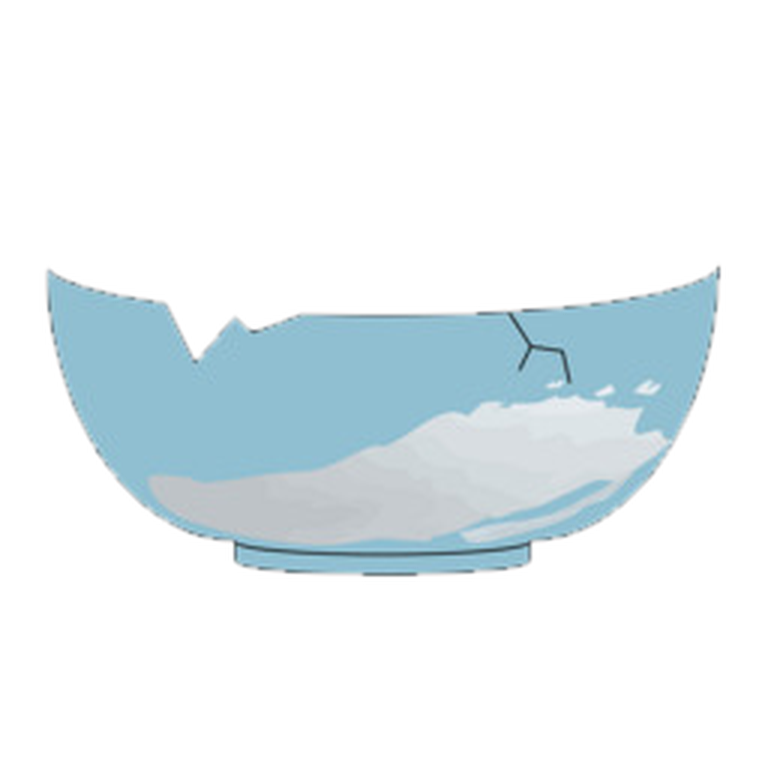
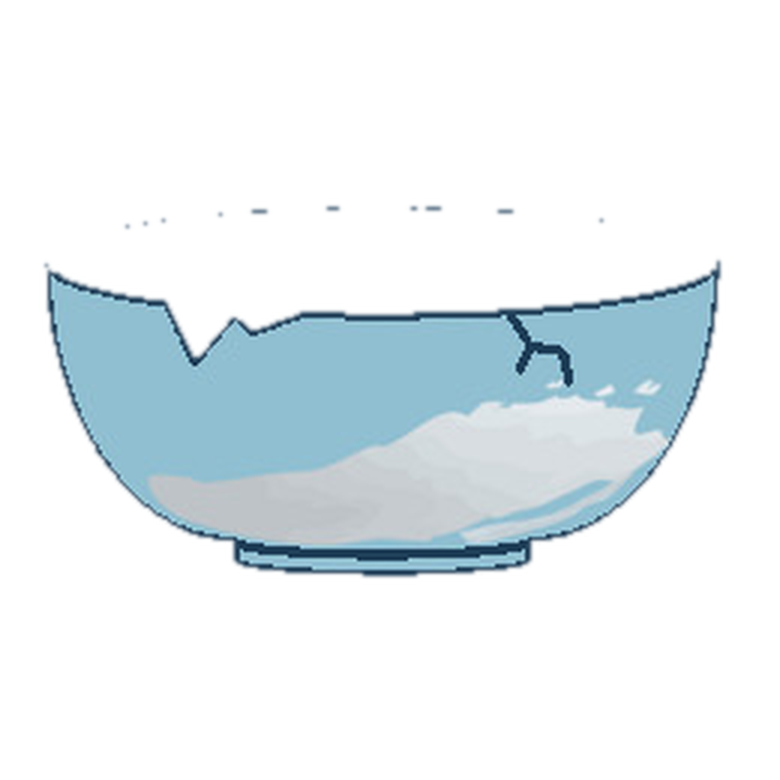
feat: 許願碗邊框與裂痕加粗加深
Claude-Session: https://claude.ai/code/session_01J1mi4tysD9zT14bgkgKuBd

diff --git a/tools/make_bowl.py b/tools/make_bowl.py
@@ -1,0 +1,52 @@
+#!/usr/bin/env python3
+"""把咖哩給的碗圖（tools/bowl_src/bowl_original.jpg，260x260，假透明的棋盤格背景）處理成許願碗用的兩張圖：
+   wishjar/bowl_back.png（碗口內側＋碗身，畫在銅錢後面）、wishjar/bowl_front.png（碗身前面一層，半透明蓋在銅錢上）。
+   用法：python3 tools/make_bowl.py [--line 1] [--edge 2]    （需要 pillow numpy scipy）
+   --line  邊線與裂痕往外加粗幾個像素（原圖像素，預設 1）　--edge 碗外緣再描粗幾個像素（預設 2）"""
+import argparse, os
+import numpy as np
+from PIL import Image, ImageFilter
+from scipy import ndimage as ndi
+
+ap = argparse.ArgumentParser()
+ap.add_argument('--src', default=os.path.join(os.path.dirname(__file__), 'bowl_src', 'bowl_original.jpg'))
+ap.add_argument('--out', default=os.path.join(os.path.dirname(__file__), '..', 'wishjar'))
+ap.add_argument('--line', type=int, default=1)
+ap.add_argument('--edge', type=int, default=2)
+args = ap.parse_args()
+
+src = Image.open(args.src).convert('RGB')
+a = np.array(src).astype(int)
+# 1) 去背：從四邊開始，把「灰白的棋盤格」連通區域視為背景（碗的藍色外框會擋住，不會洗進碗裡）
+neutral = ((a.max(axis=2) - a.min(axis=2)) < 14) & (a.min(axis=2) >= 215)
+lab, _ = ndi.label(neutral)
+border = set(np.unique(np.concatenate([lab[0], lab[-1], lab[:, 0], lab[:, -1]]))) - {0}
+bg = np.isin(lab, list(border))
+fg = ndi.binary_opening(~bg, iterations=1)
+# 2) 碗口內側（原圖是棋盤格）：種子點在碗口橢圓裡
+seed = next(lab[y, x] for (x, y) in [(130, 88), (130, 92), (120, 90), (140, 90), (130, 85)] if lab[y, x] and lab[y, x] not in border)
+inter = lab == seed
+# 3) 邊框與裂痕加粗加深：深色像素（邊線、裂痕）往外長粗，再把碗的外緣描一圈
+lum = a.mean(axis=2)
+line = fg & (lum < 135)
+thick = ndi.binary_dilation(line, structure=ndi.generate_binary_structure(2, 1), iterations=args.line) & fg
+edge = fg & ~ndi.binary_erosion(fg, iterations=args.edge)
+dark = thick | edge
+a = a.astype(float)
+a[dark] = np.array([30, 62, 88])
+# 4) 碗口內側改成淡淡的瓷白→淺藍漸層
+ys, xs = np.where(inter); y0, y1 = ys.min(), ys.max()
+for y in range(a.shape[0]):
+    t = min(1, max(0, (y - y0) / max(1, (y1 - y0))))
+    a[y][inter[y] & ~dark[y]] = np.array([240, 248, 252]) * (1 - t) + np.array([196, 222, 236]) * t
+filled = Image.fromarray(a.astype('uint8'))
+srcdark = a.copy(); srcdark[inter & ~dark] = a[inter & ~dark]   # 前層用同一張（內側之後會挖掉）
+
+def mk(img, mask):
+    al = Image.fromarray((mask * 255).astype('uint8')).filter(ImageFilter.MinFilter(3)).filter(ImageFilter.GaussianBlur(0.7))
+    o = img.convert('RGBA'); o.putalpha(al); return o
+back = mk(filled, fg)
+front = mk(filled, fg & (~inter | dark))      # 前層：碗口內側挖空，但內側的深色邊線留著
+for name, im in (('back', back), ('front', front)):
+    im.resize((780, 780), Image.LANCZOS).save(os.path.join(args.out, 'bowl_%s.png' % name), optimize=True)
+print('done')

diff --git a/CLAUDE.md b/CLAUDE.md
@@ -392,7 +392,7 @@
 | `tools/test_duel.js` | 單挑賽規則的自動測試（`node tools/test_duel.js`，不用開瀏覽器） |
 | `songrequest/index.html` | **另一個小程式：TikTok 直播點歌**（單頁；留言 `#歌名` → YouTube 搜尋 → 內嵌播放＋待播清單；網址 `…/Curry_Live/songrequest/`，OBS 加 `?obs=1`；設定存在網址裡；2026-11-20 最小版，沒在真的 TikFinity／YouTube 金鑰下測過；同日加歌詞：點歌成功後用影片標題、長度去 LRCLIB 查帶時間軸歌詞，跟著播放秒數顯示上一句／這一句／下一句，長度差超過 8 秒不採用，主播留言「歌詞提前／歌詞延後／歌詞歸零」或按鈕微調 0.5 秒；⚠ 沒對真的 LRCLIB 測過，華語歌命中率未知；2026-11-20 OBS 網址改短：設定（含 YouTube 金鑰）存進 Supabase（同亂鬥的 `live_get`／`live_put`，槽位 `songreq`），網址只帶雲端代號 `?obs=1&c=代號`，面板改設定停 0.8 秒自動存、OBS 畫面每 30 秒讀回套用；存雲端失敗時自動退回長網址；代號＝密碼，面板有「換新代號」；同日加音量與「顯示播放器」開關：面板滑桿設預設音量（預設 80，存雲端）、播放器上 🔉🔊 或主播留言「音量 30」可臨時調（雲端那份沒變就不會被蓋回去），關掉顯示播放器時影片移到畫面外、只剩聲音／歌名／歌詞／清單，自動播放被擋時會暫時顯示；⚠ 關掉播放器時 YouTube 是否照常播、是否違反 YouTube 對嵌入播放器的規定，沒驗證；2026-11-21 加「備用金鑰」（咖哩有兩個帳號、不同專案）：主要金鑰回 quotaExceeded 就改用備用的，用完的金鑰記在瀏覽器到太平洋時間午夜，兩把都用完才顯示額度用完；額度是算在專案上，備用金鑰必須來自不同專案；⚠ 用多個專案是否違反 YouTube 規定官方沒明說（額度擴充表單會問有沒有用多專案），風險由咖哩自行承擔，沒對真的 YouTube 測過；同日加「歌名記憶」：成功搜過的「歌名→影片」存雲端（同代號下的 `songreq-cache` 槽，最多 400 首、淘汰最久沒用的），下次開播先讀回來，命中就不花 YouTube 額度，命中時仍用目前的長度／黑名單重判；只有歌名打得一樣（不分大小寫、空白合併）才命中；影片放不出來時會把那筆記憶刪掉；⚠ 沒對真的 Supabase 測過；2026-11-21 加「自動重播」：沒人點歌也沒待播歌時，從這場觀眾點的第一首開始照順序重播、放完一輪回到第一首（只記在記憶體，重新整理就重新累積；面板有開關，預設開），觀眾一點歌就等正在放的這首放完再換觀眾的，放不出來的歌會從重播輪替裡拿掉；同日卡片與歌詞背景改透明，字改用黑色粗外框撐住，沒歌在放時 OBS 不留空播放器，右下提示條（點歌成功等）仍是黑底；2026-11-21 加「主播控制台」`songrequest/pad.html`：設定面板按「🎛 開啟主播控制台」開（帶 `?c=雲端代號`），OBS 畫面把狀態寫到雲端 `songreq-state`、每 1 秒讀 `songreq-cmd` 的指令（控制台存最近 20 個有遞增編號的指令，OBS 只執行比自己記的新的，第一次載入只記編號不重播），控制台可暫停／繼續／跳過／清空／**停止點歌**（暫停＋清空＋擋下新點歌＋關自動重播）／開始點歌／音量／歌詞微調／自動重播開關／待播清單單首刪除或插隊，並看到目前播放與待播；延遲約 1～3 秒，OBS 超過 45 秒沒回報就顯示離線；主播也可留言「停止點歌」「開始點歌」；用長網址（沒帶 `c=`）的 OBS 不支援控制台；2026-11-21 字級調整：歌詞縮小（目前句 42→32px、上下句 24→18px）、歌名 15→22px、待播清單 13→18px，主播控制台縮小（寬 460→330px、按鈕與間距變小，小視窗 440x760→340x560）；2026-11-23 加「廣告中」提示：歌詞區偵測到播放器的影片代號或長度跟要播的歌對不上時，顯示「📢 廣告中，歌詞稍後繼續」並暫停歌詞，廣告結束自動接回（`adPlaying()`）；⚠ 偵測方式是猜的（用假播放器測過，沒對真的 YouTube 廣告測過，可能偵測不到或誤判）；程式不能跳過廣告，要免廣告得用 Premium 登入播放的瀏覽器；2026-11-24 管理員帳號可填多個：設定頁「管理員的 TikTok 帳號」用逗號／頓號／空白分開，任一個帳號留言都能用主播指令（`hostIds()`／`isHost()`，仍比對帳號代號不比暱稱；舊的單一帳號設定照常可用）；2026-11-24 控制台拿掉頁尾「代號後 4 碼」字樣，並在載入後把網址列的代號拿掉（改記在這個瀏覽器的 `songreq.code`，重新整理仍可用；瀏覽器存不進去就保留網址）；⚠ 小視窗標題列仍會顯示網址（瀏覽器控制）但不再帶代號；用假資料測過；2026-11-24 修「一直顯示剛剛播過了」：原本播過的歌整場都不能再點，現在只擋 5 分鐘內播過的（`REPEAT_BLOCK_MS`，一開始是 10 分鐘，咖哩嫌長改 5），超過就能再點；自動重播不受影響） |
 | `songrequest/pad.html` | 點歌「主播控制台」（在一般瀏覽器開，透過雲端遙控 OBS 裡的點歌畫面；說明見上一列） |
-| `wishjar/index.html`／`matter.min.js` | **另一個小程式：禮物許願碗**（2026-11-25 咖哩要求，仿 TikFinity 的許願瓶效果；一開始做成梅森罐玻璃瓶，咖哩給了一張淺藍色碗的圖後改成碗；單頁，網址 `…/Curry_Live/wishjar/`，OBS 加 `?obs=1`；**跟點歌程式完全分開，咖哩要求不要混在一起**）：畫面上一個淺藍色的碗（**2026-11-25 咖哩給了一張網路上的公開素材碗圖，說是公開素材，來源與授權 Claude 無法確認，使用由咖哩自行負責**；原圖只有 260x260，而且「透明背景」是假的棋盤格圖案，所以用程式把背景去掉、碗口內側的棋盤格換成淡淡的瓷白，再放大 3 倍存成 `wishjar/bowl_back.png`（碗口內側＋碗身，畫在銅錢後面）與 `bowl_front.png`（碗身前面一層，30% 透明蓋在銅錢上），碗圖本身有一個缺角和裂痕；圖片載入不了時退回程式畫的碗），觀眾送禮時**金黃色的銅錢從上面掉進碗裡**（2026-11-25 咖哩要求：所有禮物都畫成銅錢，不管送什麼禮物；銅錢是程式畫的，圓形帶方孔，3 種稍微不同的金黃色；網址加 `&coin=0` 可以改回用禮物自己的圖片），裝滿了就堆過碗口、滑到碗旁邊，碗外面停下來的禮物放 7 秒後淡出消失；上方顯示標題與累計個數、鑽石數。禮物越貴圖越大（碗寬的 5.6%／100 鑽 9%／1000 鑽 11%／10000 鑽 13%）；一次送多個會一個個掉（單次最多 25 個）；改回禮物圖片時，沒有圖片網址會畫成圓圓的表情符號。物理用 Matter.js 0.19.0（MIT，檔案直接放在 `wishjar/`，授權 `MATTER_LICENSE.txt`，不用連網載入）。直接用 TikFinity 的禮物事件（`ws://localhost:21213`，格式與連送處理照亂鬥遊戲 `js/events.js`），**不用雲端、不用設定**；網址參數：`&max=` 畫面上最多幾個（預設 350，碗約裝 60～100 個，超過會滿出來）、`&cap=` 單次最多掉幾個（預設 25）、`&title=` 標題（預設「許願碗」，空白＝不顯示）、`&coin=0` 改用禮物自己的圖片、`&tikfinity=0` 不連線。沒有 `obs=1` 時左上有測試按鈕（丟 1／20 個、選鑽石數、清空）。⚠ 重新整理或關掉畫面，碗裡的禮物就清空（不存檔）；用假禮物圖與假事件測過（掉落、裝滿、滿出來、碗外淡出、連送只算新增），沒用真的 TikFinity／TikTok 禮物測過，也沒在 OBS／LIVE Studio 裡看過；改回禮物圖片（`&coin=0`）時，要有 TikFinity 事件帶圖片網址才有圖 |
+| `wishjar/index.html`／`matter.min.js` | **另一個小程式：禮物許願碗**（2026-11-25 咖哩要求，仿 TikFinity 的許願瓶效果；一開始做成梅森罐玻璃瓶，咖哩給了一張淺藍色碗的圖後改成碗；單頁，網址 `…/Curry_Live/wishjar/`，OBS 加 `?obs=1`；**跟點歌程式完全分開，咖哩要求不要混在一起**）：畫面上一個淺藍色的碗（**2026-11-25 咖哩給了一張網路上的公開素材碗圖，說是公開素材，來源與授權 Claude 無法確認，使用由咖哩自行負責**；原圖只有 260x260，而且「透明背景」是假的棋盤格圖案，所以用程式把背景去掉、碗口內側的棋盤格換成淡淡的瓷白，再放大 3 倍存成 `wishjar/bowl_back.png`（碗口內側＋碗身，畫在銅錢後面）與 `bowl_front.png`（碗身前面一層，30% 透明蓋在銅錢上），碗圖本身有一個缺角和裂痕；**邊框與裂痕已加粗加深**（咖哩 2026-11-25 要求，深色像素往外長粗 1 像素、碗外緣再描 2 像素，顏色深藍 `#1E3E58`）；處理程式 `python3 tools/make_bowl.py [--line N --edge N]`，原圖放在 `tools/bowl_src/bowl_original.jpg`，想再粗就加大參數重跑；圖片載入不了時退回程式畫的碗），觀眾送禮時**金黃色的銅錢從上面掉進碗裡**（2026-11-25 咖哩要求：所有禮物都畫成銅錢，不管送什麼禮物；銅錢是程式畫的，圓形帶方孔，3 種稍微不同的金黃色；網址加 `&coin=0` 可以改回用禮物自己的圖片），裝滿了就堆過碗口、滑到碗旁邊，碗外面停下來的禮物放 7 秒後淡出消失；上方顯示標題與累計個數、鑽石數。禮物越貴圖越大（碗寬的 5.6%／100 鑽 9%／1000 鑽 11%／10000 鑽 13%）；一次送多個會一個個掉（單次最多 25 個）；改回禮物圖片時，沒有圖片網址會畫成圓圓的表情符號。物理用 Matter.js 0.19.0（MIT，檔案直接放在 `wishjar/`，授權 `MATTER_LICENSE.txt`，不用連網載入）。直接用 TikFinity 的禮物事件（`ws://localhost:21213`，格式與連送處理照亂鬥遊戲 `js/events.js`），**不用雲端、不用設定**；網址參數：`&max=` 畫面上最多幾個（預設 350，碗約裝 60～100 個，超過會滿出來）、`&cap=` 單次最多掉幾個（預設 25）、`&title=` 標題（預設「許願碗」，空白＝不顯示）、`&coin=0` 改用禮物自己的圖片、`&tikfinity=0` 不連線。沒有 `obs=1` 時左上有測試按鈕（丟 1／20 個、選鑽石數、清空）。⚠ 重新整理或關掉畫面，碗裡的禮物就清空（不存檔）；用假禮物圖與假事件測過（掉落、裝滿、滿出來、碗外淡出、連送只算新增），沒用真的 TikFinity／TikTok 禮物測過，也沒在 OBS／LIVE Studio 裡看過；改回禮物圖片（`&coin=0`）時，要有 TikFinity 事件帶圖片網址才有圖 |
 | `tools/sync_from_curry_games.py` | 從 Curry_Games 同步資料與全身圖 |
 
 ## 工作方式
